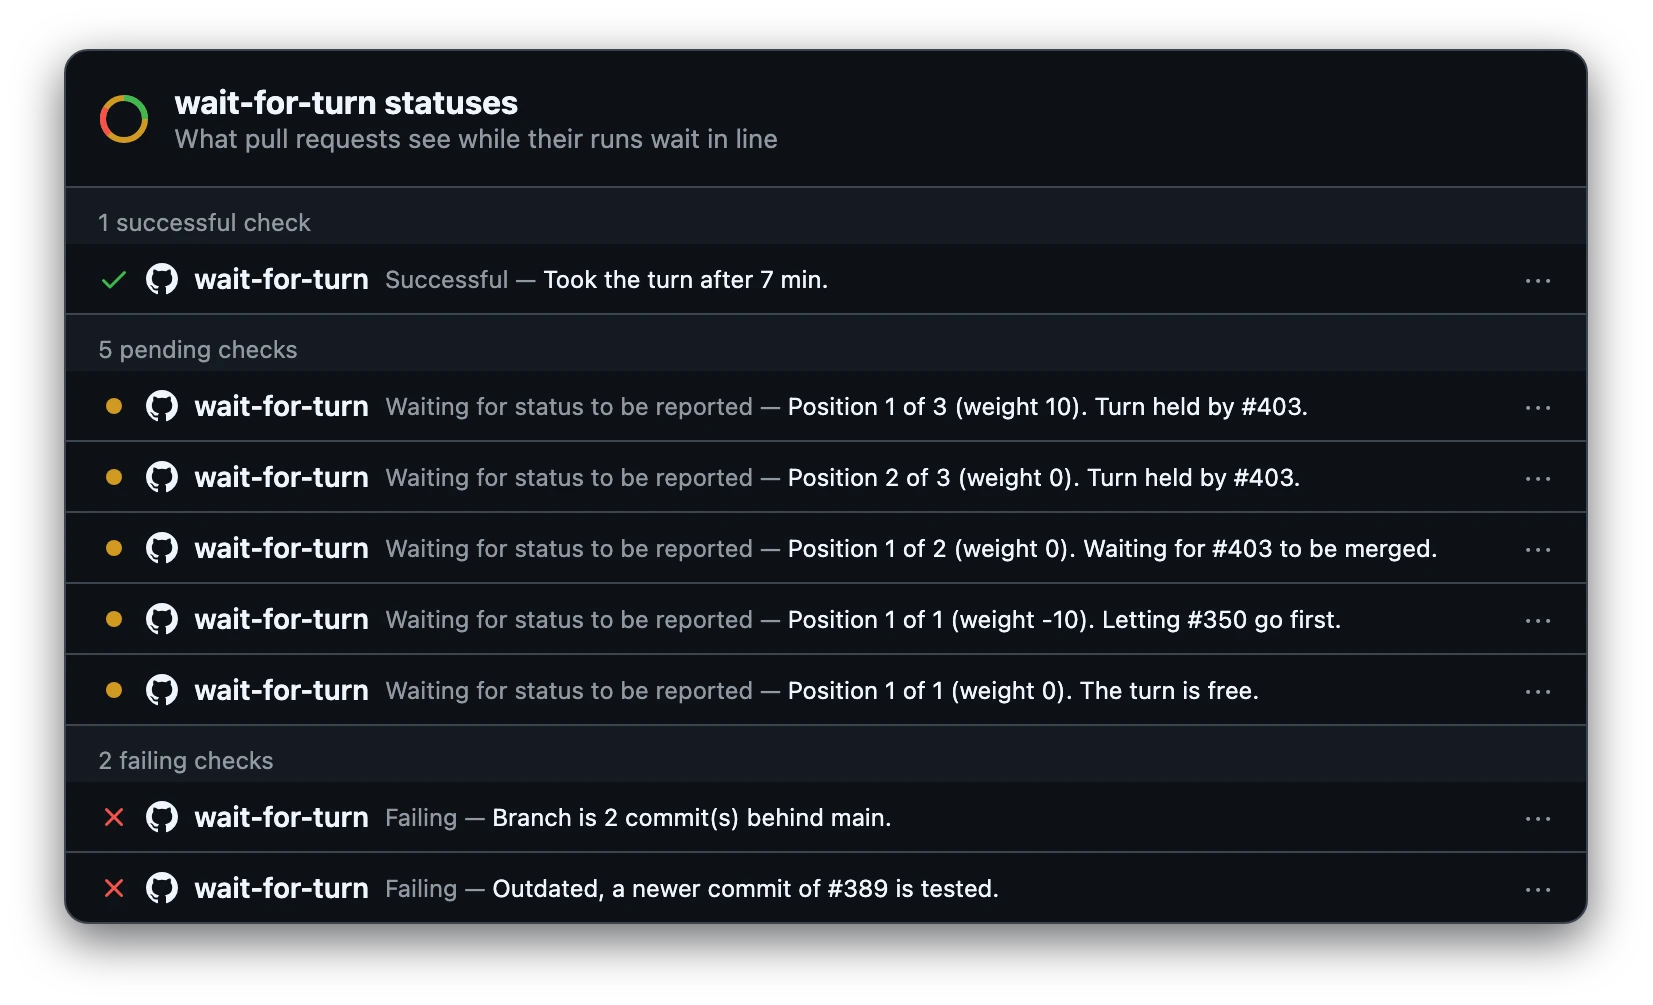
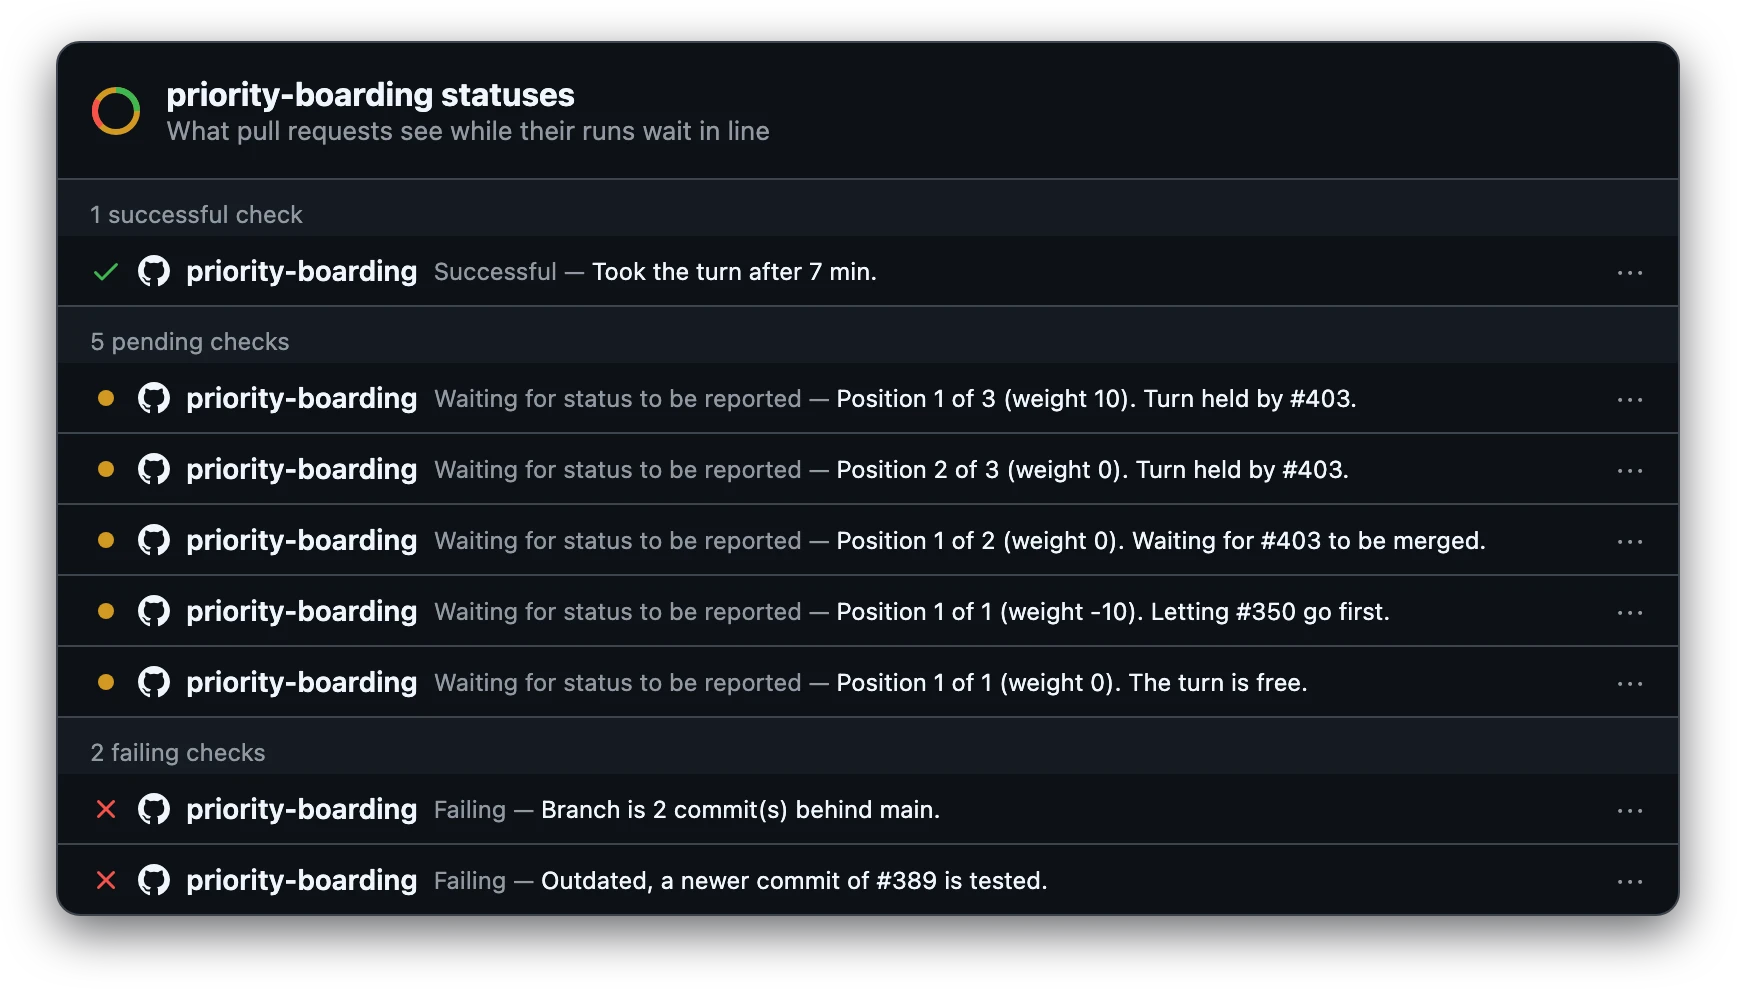
feat: rename the action to priority-boarding
The action does more than waiting by now: it orders runs by labels, lets pull requests with a higher weight go first, waits for auto-merge and rebases branches that are behind. The new name says that.

Renamed: the repository, the action, the reusable workflow (now .github/workflows/priority-boarding.yml), its job and step, the lock refs (refs/priority-boarding/<workflow>/<n>), the lock commit message and the default status context. Callers need to update the path in uses: and the job name in needs:.

Changed region(s): [[0.0309, 0.0303, 0.9873, 0.9403]]

diff --git a/README.md b/README.md
@@ -1,21 +1,21 @@
-# wait-for-turn
+# priority-boarding
 
 <picture>
   <source media="(prefers-color-scheme: dark)" srcset=".github/banner-dark.webp">
-  <img alt="wait-for-turn: Wait in line. Run one at a time." src=".github/banner-light.webp">
+  <img alt="priority-boarding: Wait in line. Run one at a time." src=".github/banner-light.webp">
 </picture>
 
-[![Release](https://img.shields.io/github/v/release/udondan/wait-for-turn)](https://github.com/udondan/wait-for-turn/releases/latest)
-[![Marketplace](https://img.shields.io/badge/marketplace-wait--for--turn-blue?logo=github)](https://github.com/marketplace/actions/wait-for-turn)
-[![Test](https://github.com/udondan/wait-for-turn/actions/workflows/test.yml/badge.svg?branch=main)](https://github.com/udondan/wait-for-turn/actions/workflows/test.yml?query=branch%3Amain)
-[![Coverage](https://codecov.io/gh/udondan/wait-for-turn/graph/badge.svg)](https://codecov.io/gh/udondan/wait-for-turn)
-[![License](https://img.shields.io/github/license/udondan/wait-for-turn)](LICENSE)
+[![Release](https://img.shields.io/github/v/release/udondan/priority-boarding)](https://github.com/udondan/priority-boarding/releases/latest)
+[![Marketplace](https://img.shields.io/badge/marketplace-priority--boarding-blue?logo=github)](https://github.com/marketplace/actions/priority-boarding)
+[![Test](https://github.com/udondan/priority-boarding/actions/workflows/test.yml/badge.svg?branch=main)](https://github.com/udondan/priority-boarding/actions/workflows/test.yml?query=branch%3Amain)
+[![Coverage](https://codecov.io/gh/udondan/priority-boarding/graph/badge.svg)](https://codecov.io/gh/udondan/priority-boarding)
+[![License](https://img.shields.io/github/license/udondan/priority-boarding)](LICENSE)
 
 GitHub Action that queues the runs of a workflow so only one run at a time uses shared resources (test stacks, environments), without cancelling pending runs the way a `concurrency` group does. Runs are ordered by the labels of their pull requests, so for example your own pull requests are tested before dependency updates, and release pull requests last. See [Alternatives](#alternatives) for when merge queue fits better.
 
 ## How it works
 
-The run that has the turn holds the lock ref `refs/wait-for-turn/<workflow>/<n>`. The turn is released when that run completes, including all jobs after the wait, or, if its pull request is about to be auto-merged, after the merge (see [Outdated branches](#outdated-branches)). A failed or cancelled run releases it as well, so cancelling the run holding the turn frees it, also in the middle of a job after the wait. The next run takes the turn by creating ref `<n+1>`. Creating a ref fails if it already exists, so only one run can take the turn. Old lock refs are deleted.
+The run that has the turn holds the lock ref `refs/priority-boarding/<workflow>/<n>`. The turn is released when that run completes, including all jobs after the wait, or, if its pull request is about to be auto-merged, after the merge (see [Outdated branches](#outdated-branches)). A failed or cancelled run releases it as well, so cancelling the run holding the turn frees it, also in the middle of a job after the wait. The next run takes the turn by creating ref `<n+1>`. Creating a ref fails if it already exists, so only one run can take the turn. Old lock refs are deleted.
 
 Waiting runs are ordered by weight (highest first), then by start time. A re-run of the run holding the turn keeps it. A re-run of any other run queues by its new start time. A run of a pull request that has a newer run is left out of the queue: its commit is outdated, and it can stay active for a while after it stopped waiting, for example while other jobs finish after it failed as outdated. A waiting run fails as soon as its pull request has a newer run of another commit, so it never tests the outdated commit. To stop it right away instead of at its next check, add a `concurrency` group (see [Workflow setup](#workflow-setup)).
 
@@ -55,7 +55,7 @@ flowchart TD
 
 ```yaml
 jobs:
-  wait-for-turn:
+  priority-boarding:
     runs-on: ubuntu-latest
     timeout-minutes: 180
     permissions:
@@ -66,7 +66,7 @@ jobs:
       group: ${{ github.workflow }}-wait-${{ github.head_ref || github.ref }}
       cancel-in-progress: true
     steps:
-      - uses: udondan/wait-for-turn@v1
+      - uses: udondan/priority-boarding@v1
         with:
           require-up-to-date: true
           label-weights: |
@@ -74,12 +74,12 @@ jobs:
             renovate=-5
 
   deploy:
-    needs: wait-for-turn
+    needs: priority-boarding
     if: ${{ !cancelled() }}
     runs-on: ubuntu-latest
     steps:
       - name: Check turn
-        if: needs.wait-for-turn.result != 'success'
+        if: needs.priority-boarding.result != 'success'
         run: exit 1
       # ...
 ```
@@ -92,22 +92,22 @@ The wait job can also be called as a [reusable workflow](https://docs.github.com
 
 ```yaml
 jobs:
-  wait-for-turn:
+  priority-boarding:
     permissions:
       actions: read
       contents: write
       pull-requests: read
       statuses: write
-    uses: udondan/wait-for-turn/.github/workflows/wait-for-turn.yml@v1
+    uses: udondan/priority-boarding/.github/workflows/priority-boarding.yml@v1
     secrets:
       update-token: ${{ secrets.UPDATE_TOKEN }}
 
   deploy:
-    needs: wait-for-turn
+    needs: priority-boarding
     # ...
 ```
 
-It runs the action with a `concurrency` group that cancels outdated waiting runs (see [Workflow setup](#workflow-setup)) and queues on the calling workflow. The action comes from the same commit as the workflow file, so `@v1` follows every release of both. The calling job can still have its own `needs` and `if`, but no `runs-on` or `steps`. Its permissions are the most the called job gets, so grant them there. `statuses: write` is only needed for `status-context`. In the checks of a pull request, the job is shown as `wait-for-turn / Wait for turn`.
+It runs the action with a `concurrency` group that cancels outdated waiting runs (see [Workflow setup](#workflow-setup)) and queues on the calling workflow. The action comes from the same commit as the workflow file, so `@v1` follows every release of both. The calling job can still have its own `needs` and `if`, but no `runs-on` or `steps`. Its permissions are the most the called job gets, so grant them there. `statuses: write` is only needed for `status-context`. In the checks of a pull request, the job is shown as `priority-boarding / Priority boarding`.
 
 The inputs are the [inputs](#inputs) of the action, with the secrets `update-token` and `token`. Some defaults differ from the action's, to match the setup this README recommends:
 
@@ -117,7 +117,7 @@ The inputs are the [inputs](#inputs) of the action, with the secrets `update-tok
 | `no-pull-request-weight` | `-100`                                                    |
 | `timeout-minutes`        | `180`                                                     |
 | `require-up-to-date`     | `true`                                                    |
-| `status-context`         | `wait-for-turn`                                           |
+| `status-context`         | `priority-boarding`                                       |
 
 With these weights, label a pull request `urgent` to move its run to the front of the queue, also while it is waiting. Create the label in your repository first. Your own `label-weights` replace the defaults, so add `urgent=10` to them to keep it.
 
@@ -149,7 +149,7 @@ Pass `label-weights: ''` or `status-context: ''` under `with:` to turn them off.
 
 ```yaml
   required:
-    needs: [wait-for-turn, deploy]
+    needs: [priority-boarding, deploy]
     if: always()
     runs-on: ubuntu-latest
     steps:
@@ -173,7 +173,7 @@ on:
     branches: [main]
 
 # ...
-      - uses: udondan/wait-for-turn@v1
+      - uses: udondan/priority-boarding@v1
         with:
           label-weights: |
             autorelease: pending=-10
@@ -192,7 +192,7 @@ With branch protection requiring branches to be up to date, testing a branch tha
 Not every branch gets updated after a merge. release-please, for example, leaves its pull request alone when the merged commit doesn't change the changelog, so its runs would fail forever. With `update-token`, the action rebases a branch that is behind onto the base branch before failing, and the new commit starts a new run. Pushes made with `github.token` don't start workflow runs, so `update-token` has to be a personal access token or a GitHub App token with `contents: write` and `pull-requests: write`. Branches of forks are never updated.
 
 ```yaml
-      - uses: udondan/wait-for-turn@v1
+      - uses: udondan/priority-boarding@v1
         with:
           require-up-to-date: true
           update-token: ${{ secrets.UPDATE_TOKEN }}
@@ -205,7 +205,7 @@ After a merge, the other pull requests are updated at different times. A release
 With `update-pending-branches: true` and `update-token`, the waiting run also rebases such a pull request when its tested branch is behind, and lets the new commit go first. This keeps the order by weight after a merge, without waiting for the branch to be updated by someone else. It costs a run per rebase, also for a pull request whose tests fail: it is tested again each time its base branch moves on. Branches of forks are never updated.
 
 ```yaml
-      - uses: udondan/wait-for-turn@v1
+      - uses: udondan/priority-boarding@v1
         with:
           require-up-to-date: true
           update-pending-branches: true
@@ -222,7 +222,7 @@ The log shows the queue, but GitHub doesn't show the log of a composite action l
 
 <picture>
   <source media="(prefers-color-scheme: dark)" srcset=".github/statuses-dark.webp">
-  <img alt="Examples of the wait-for-turn commit status: took the turn, waiting in line behind a running pull request, waiting for a pull request to be merged, letting a pull request with a higher weight go first, the turn is free, branch behind, outdated commit" src=".github/statuses-light.webp" width="820">
+  <img alt="Examples of the priority-boarding commit status: took the turn, waiting in line behind a running pull request, waiting for a pull request to be merged, letting a pull request with a higher weight go first, the turn is free, branch behind, outdated commit" src=".github/statuses-light.webp" width="862">
 </picture>
 
 The token needs `statuses: write`. Without it, the action logs a warning and waits without the status. A run killed before it can clean up leaves the status pending.
@@ -234,9 +234,9 @@ The token needs `statuses: write`. Without it, the action logs a warning and wai
       pull-requests: read
       statuses: write
     steps:
-      - uses: udondan/wait-for-turn@v1
+      - uses: udondan/priority-boarding@v1
         with:
-          status-context: wait-for-turn
+          status-context: priority-boarding
 ```
 
 ## Alternatives
@@ -252,11 +252,11 @@ This action is for repositories without merge queue, for example ones owned by a
 Pull requests from forks and from Dependabot get a read-only token and can't create the lock ref. The action then fails with a permission error. Skip the wait job for them instead:
 
 ```yaml
-  wait-for-turn:
+  priority-boarding:
     if: github.event_name != 'pull_request' || (github.event.pull_request.head.repo.full_name == github.repository && github.actor != 'dependabot[bot]')
 ```
 
-Jobs after it then have to treat a skipped wait as success, for example with `if: needs.wait-for-turn.result == 'failure' || needs.wait-for-turn.result == 'cancelled'` in the `Check turn` step. They don't get the secrets either, so skip the jobs that use the shared resources for them as well.
+Jobs after it then have to treat a skipped wait as success, for example with `if: needs.priority-boarding.result == 'failure' || needs.priority-boarding.result == 'cancelled'` in the `Check turn` step. They don't get the secrets either, so skip the jobs that use the shared resources for them as well.
 
 ## Testing
 

diff --git a/AGENTS.md b/AGENTS.md
@@ -4,7 +4,7 @@ This file provides guidance to Claude Code (claude.ai/code) when working with co
 
 ## What this is
 
-A composite GitHub Action. `action.yml` maps inputs to `INPUT_*` env vars (plus PR context like `PR_NUMBER`, `BASE_REF`, `HEAD_SHA`, `HEAD_REPO`, `UPDATE_TOKEN`) and runs `wait.sh`. All logic is in `wait.sh` (bash + `gh api` + `jq`). There is no build step and no package manager. `.github/workflows/wait-for-turn.yml` is a reusable workflow (`on: workflow_call`, never runs on its own) with the recommended wait job; it calls the action with `uses: $/`, the same commit, and `test.yml` calls it on every PR as a test. README.md documents user-facing behavior; keep it, `action.yml` input descriptions, the inputs of the reusable workflow and the header comment of `wait.sh` in sync when behavior changes.
+A composite GitHub Action. `action.yml` maps inputs to `INPUT_*` env vars (plus PR context like `PR_NUMBER`, `BASE_REF`, `HEAD_SHA`, `HEAD_REPO`, `UPDATE_TOKEN`) and runs `wait.sh`. All logic is in `wait.sh` (bash + `gh api` + `jq`). There is no build step and no package manager. `.github/workflows/priority-boarding.yml` is a reusable workflow (`on: workflow_call`, never runs on its own) with the recommended wait job; it calls the action with `uses: $/`, the same commit, and `test.yml` calls it on every PR as a test. README.md documents user-facing behavior; keep it, `action.yml` input descriptions, the inputs of the reusable workflow and the header comment of `wait.sh` in sync when behavior changes.
 
 ## Commands
 
@@ -18,7 +18,7 @@ Tool versions are pinned in `mise.toml` (bats, ruby, shellcheck, actionlint, ziz
 
 ## How wait.sh works
 
-- **Lock**: the turn is held by the run that created the newest ref `refs/wait-for-turn/<workflow>/<n>`. Taking the turn = creating a commit (message `wait-for-turn: run <id>[, pull request <n>]`) and ref `<n+1>`. Ref creation returns HTTP 422 if it exists, which is the mutual exclusion. After creating, it re-checks the newest ref (a stale run may recreate an old number) and deletes older refs. The holder's run id / PR are parsed back from the lock commit message (`read_holder`), so that format is a contract.
+- **Lock**: the turn is held by the run that created the newest ref `refs/priority-boarding/<workflow>/<n>`. Taking the turn = creating a commit (message `priority-boarding: run <id>[, pull request <n>]`) and ref `<n+1>`. Ref creation returns HTTP 422 if it exists, which is the mutual exclusion. After creating, it re-checks the newest ref (a stale run may recreate an old number) and deletes older refs. The holder's run id / PR are parsed back from the lock commit message (`read_holder`), so that format is a contract.
 - **Holder liveness** (`is_active`): active runs come from the *unfiltered* runs list filtered client-side, because the API's `status` filter is backed by a stale search index. A holder missing from that list is fetched directly; only a 404 or `completed` releases the turn, other errors keep it held.
 - **Merge wait** (`merge_pending`): a successful holder whose PR has auto-merge keeps the turn until merged/closed, behind/dirty, blocked by a failed required check (GraphQL `isRequired`, a read error keeps waiting), new head commit, or `merge-wait-minutes`.
 - **Queue**: active runs minus the holder, minus older runs of a PR that has a newer run (this run stays, but `check_newer_run` fails it if the newer run is of another commit), sorted by label weight desc, then `run_started_at`, then id.
@@ -42,4 +42,4 @@ release-please (`release-type: simple`) builds CHANGELOG.md and tags from conven
 
 ## End-to-end tests
 
-`test/e2e/` runs the action for real in the throwaway repository `udondan/wait-for-turn-e2e`: scenarios open parallel pull requests, an observer records lock refs, runs and pull requests, and an analyzer checks mutual exclusion, order, release and commit statuses. Not run on pull requests, a scenario takes 3 to 15 minutes, all about 1.5 hours: run `test/e2e/run.sh --ref <ref>` locally or start the workflow `e2e.yml` (`gh workflow run e2e.yml -f ref=<ref>`, needs the secret `E2E_TOKEN`). See `test/e2e/README.md`. A behavior change that the bats tests can't show (API timing, auto-merge, rebases with a token, cancellation) should get a scenario there.
+`test/e2e/` runs the action for real in the throwaway repository `udondan/priority-boarding-e2e`: scenarios open parallel pull requests, an observer records lock refs, runs and pull requests, and an analyzer checks mutual exclusion, order, release and commit statuses. Not run on pull requests, a scenario takes 3 to 15 minutes, all about 1.5 hours: run `test/e2e/run.sh --ref <ref>` locally or start the workflow `e2e.yml` (`gh workflow run e2e.yml -f ref=<ref>`, needs the secret `E2E_TOKEN`). See `test/e2e/README.md`. A behavior change that the bats tests can't show (API timing, auto-merge, rebases with a token, cancellation) should get a scenario there.

diff --git a/test/e2e/README.md b/test/e2e/README.md
@@ -1,6 +1,6 @@
 # End-to-end tests
 
-The bats tests run `wait.sh` against a fake `gh` and a fake `sleep`. These tests run the action for real, in a throwaway public repository (`udondan/wait-for-turn-e2e` by default, set `E2E_REPO` to use another one): real runs, lock refs, auto-merge, rebases with a token, concurrency cancellation and commit statuses.
+The bats tests run `wait.sh` against a fake `gh` and a fake `sleep`. These tests run the action for real, in a throwaway public repository (`udondan/priority-boarding-e2e` by default, set `E2E_REPO` to use another one): real runs, lock refs, auto-merge, rebases with a token, concurrency cancellation and commit statuses.
 
 They don't run on pull requests. A scenario takes 3 to 15 minutes, all of them about 1.5 hours. Run them locally (see [Running](#running)) or with the workflow [End-to-end tests](../../.github/workflows/e2e.yml) (see [In GitHub Actions](#in-github-actions)).
 
@@ -17,7 +17,7 @@ They don't run on pull requests. A scenario takes 3 to 15 minutes, all of them a
 `setup.sh` can't set the token for rebases. Create a fine-grained personal access token for the test repository only, with **Contents** and **Pull requests** read and write, and store it:
 
 ```sh
-gh secret set UPDATE_TOKEN -R udondan/wait-for-turn-e2e
+gh secret set UPDATE_TOKEN -R udondan/priority-boarding-e2e
 ```
 
 Scenarios 06, 07, 09 and 10 need it.
@@ -44,8 +44,8 @@ test/e2e/run.sh 03 06                  # some of them
 The workflow `e2e.yml` runs `run.sh --ref <ref> [scenarios]`, started by hand: Actions → End-to-end tests → Run workflow, or
 
 ```sh
-gh workflow run e2e.yml -R udondan/wait-for-turn -f ref=main               # all scenarios
-gh workflow run e2e.yml -R udondan/wait-for-turn -f ref=main -f scenarios="03 06"
+gh workflow run e2e.yml -R udondan/priority-boarding -f ref=main               # all scenarios
+gh workflow run e2e.yml -R udondan/priority-boarding -f ref=main -f scenarios="03 06"
 ```
 
 The job summary shows the PASS/FAIL lines, the artifact `e2e-results` has the logs and reports. Only one run at a time, a second one waits.
@@ -53,7 +53,7 @@ The job summary shows the PASS/FAIL lines, the artifact `e2e-results` has the lo
 It needs the secret `E2E_TOKEN` in this repository: a fine-grained personal access token for the test repository only, with read and write for **Actions**, **Administration**, **Contents**, **Issues**, **Pull requests**, **Variables** and **Workflows**, and read for **Commit statuses** and **Secrets**. Keep it apart from `UPDATE_TOKEN`, so the action under test only gets the permissions users are told to give it.
 
 ```sh
-gh secret set E2E_TOKEN -R udondan/wait-for-turn
+gh secret set E2E_TOKEN -R udondan/priority-boarding
 ```
 
 Each scenario first resets the repository: it closes pull requests, cancels runs, deletes branches and lock refs and restores the default variables. Don't run two at the same time.
@@ -101,5 +101,5 @@ The repository can stay for the next release. To delete it:
 
 ```sh
 gh auth refresh -s delete_repo
-gh repo delete udondan/wait-for-turn-e2e
+gh repo delete udondan/priority-boarding-e2e
 ```
